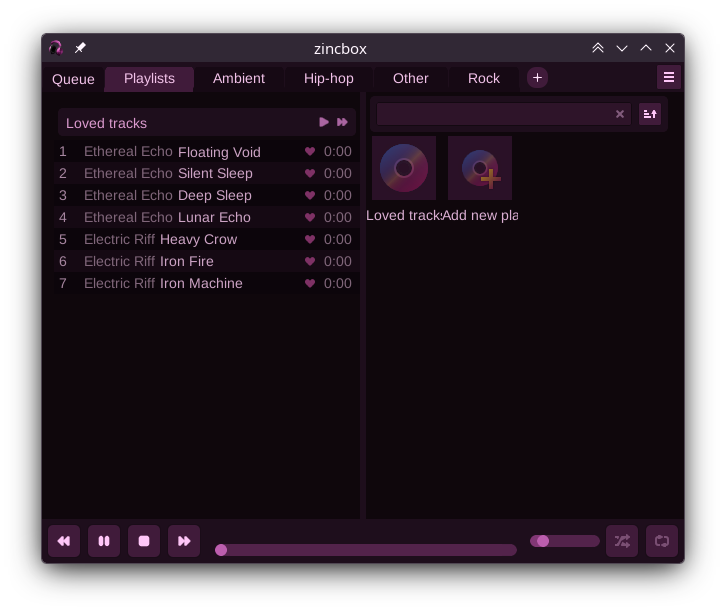
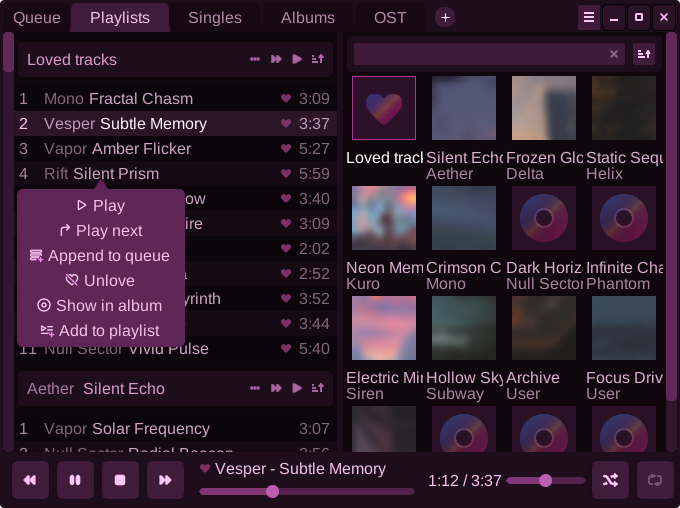
update readme, add static's to zincbox.cpp

diff --git a/src/core/zincbox.cpp b/src/core/zincbox.cpp
@@ -38,11 +38,11 @@
 static std::atomic<bool> s_running = false;
 static Settings s_settings;
 static std::unique_ptr<zincbox::IWindow> s_window = nullptr;
-AppSerialized s_loaded_state;
+static AppSerialized s_loaded_state;
 
-void update_mini_player_state();
-void update_window_title();
-void check_opengl_errors();
+static void update_mini_player_state();
+static void update_window_title();
+static void check_opengl_errors();
 
 float zincbox::ui_scale() { return s_settings.interface.scale * 0.01f; }
 
@@ -222,7 +222,7 @@ void zincbox::save_db_to_file() {
 zincbox::IWindow* zincbox::window() { return s_window.get(); }
 Settings& zincbox::settings() { return s_settings; }
 
-void update_mini_player_state() {
+static void update_mini_player_state() {
   static std::optional<bool> is_mini_player = std::nullopt;
   if (is_mini_player != interface::get_mini_player()) {
 
@@ -243,7 +243,7 @@ void update_mini_player_state() {
   }
 }
 
-void update_window_title() {
+static void update_window_title() {
   static std::optional<db::track_info> prev_playing;
   auto playing = player::get_playing();
   if (playing == prev_playing) { return; }
@@ -260,7 +260,7 @@ void update_window_title() {
   s_window->title(window_title.c_str());
 }
 
-const char* get_opengl_error_string(GLenum err) {
+static const char* get_opengl_error_string(GLenum err) {
   switch (err) {
   case GL_NO_ERROR: return "No error";
   case GL_INVALID_ENUM: return "Invalid enum";
@@ -274,7 +274,7 @@ const char* get_opengl_error_string(GLenum err) {
   }
 }
 
-void check_opengl_errors() {
+static void check_opengl_errors() {
   GLenum error;
   while ((error = glGetError()) != GL_NO_ERROR) {
     std::stringstream error_hex;

diff --git a/README.md b/README.md
@@ -5,21 +5,21 @@
 
 ### A versatile music player
 
-![Screenshot](screenshot.png)
+<img src="screenshot.png" alt="Screenshot" width="680px" />
 
 # Quick guide
 
-The top panel displays your file collections, alongside dedicated 'Playlists' view for user-created playlists and 'Queue' view for active playback.
+The top panel displays your file collections, alongside dedicated *Playlists* view for user-created playlists and *Queue* view for active playback.
 
-To add a new collection, click the **+** button on the top panel, or simply drag and drop folders directly into the application window. When adding multiple folders, you may choose to merge them into a single collection or keep them separate.
+When a collection or the *Playlists* view is opened, the main view splits into two areas: the left panel displays tracklists grouped by album or playlist, while the right panel provides a grid of covers. Selecting any album or playlist from the grid shows its tracks in the left panel.
 
-Press **Ctrl+F** to open the search window and quickly locate any track or playlist.
+To add a new collection, click the *+* button on the top panel, or simply drag and drop folders directly into the application window. When adding multiple folders, you may choose to merge them into a single collection or keep them separate.
 
-To access configuration such as playback settings or theme options, click the settings icon in the top-right corner of the panel.
+The menu button in the top-right corner provides quick access to search (also reachable via *Ctrl+F*), the mini-player toggle, and application settings such as playback configuration and theme options.
 
 # Building and Installation
 
-Zincbox is built with **CMake**. You will need a compiler (**Clang** or **GCC**) and a build system (**Make** or **Ninja**) installed on your system.
+Zincbox is built with *CMake*. You will need a compiler (*Clang* or *GCC*) and a build system (*Make* or *Ninja*) installed on your system.
 
 ## 1. Install Dependencies
 
@@ -73,6 +73,8 @@ wayland-devel wayland-protocols-devel libdecor-devel
 
 ## 2. Build
 
+### Linux
+
 Build using the provided script (`build.sh`) with optional flags:
 
 | Flag      | Description                   |
@@ -89,6 +91,13 @@ Build using the provided script (`build.sh`) with optional flags:
 
 For example
 `./build.sh release run`
+
+### Windows
+
+```cmd
+cmake -B build -G Ninja -DCMAKE_BUILD_TYPE=Release
+cmake --build build
+```
 
 # Technical Details
 
